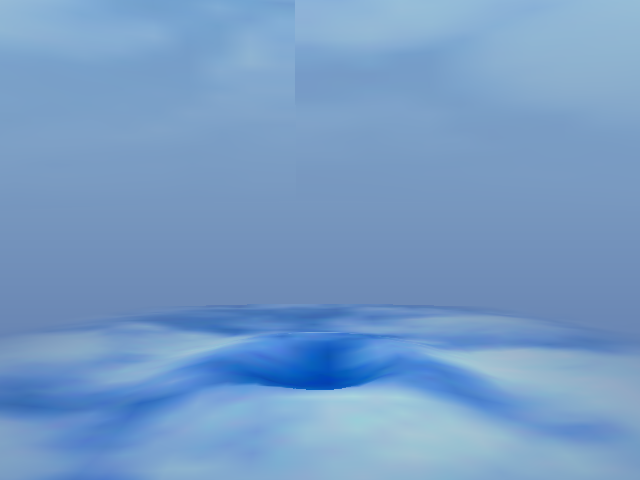
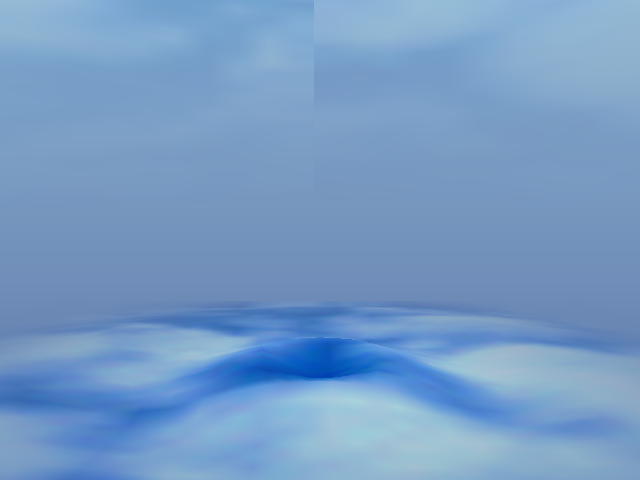
Backdrop scene into the opaque list (colour-based fade, screen-bounded meshes); overlay as pieces; no panel shadows: fixes polygons dropped from the translucent tile lists
Claude-Session: https://claude.ai/code/session_01AV7v7VGumyouLVprf4KvLQ

diff --git a/openMenu/src/openmenu/src/ui/draw_kos.c b/openMenu/src/openmenu/src/ui/draw_kos.c
@@ -387,14 +387,20 @@ draw_draw_phone_icon(int x, int y, uint32_t color) {
  * It is the same scene as the page's Three.js one (dc-background.js of DreamPiAutoToggle, adapted from the VMU Icon Maker by Robert Dale
  * Smith, MIT): a camera at (0, -20, 7) with a 75 degree field of view looking along +y, a 50 x 30 plane at z = 0 whose height is four
  * outgoing ripples, fading out with the distance from the middle, and a big cylinder (radius 40, rotating slowly) behind it that fades
- * out downward, both covered with the same 64x64 cloud texture. Over a sky gradient. Lighting is the page's: an ambient 0x404040 and two
+ * out downward, both covered with the same 64x64 cloud texture, over a sky gradient. Lighting is the page's: an ambient 0x404040 and two
  * directional lights, worked out per vertex.
  *
- * The page's mesh has 101 x 101 vertices; this one has 29 x 21 for the plane and about 18 x 11 for the cylinder, which keeps a frame at
- * roughly 1700 vertices (about 55 KB of the 256 KB vertex buffer). The texture is 8 KB of video memory, allocated once. If that
- * allocation fails the sky gradient still draws. Colours are exactly the page's unless the theme gives a backdrop_color to tint them.
+ * How it fits the PVR. The scene goes into the OPAQUE list, not the translucent one. The translucent list is where all the text goes, and the
+ * PVR keeps a short list of the polygons in each 32 x 32 tile (32 entries); a tile with text in it is already half full, so a scene drawn
+ * there made the PVR drop polygons (squares missing from pictures, vanishing text and borders). The page's fade to transparent is done with
+ * the colours instead: a vertex gets the picture times (opacity x light) as its colour and (1 - opacity) x the sky behind it as its offset
+ * colour, which adds up to the same blend. The meshes also stay near the screen (the page's plane and cylinder run far off it), because the PVR
+ * draws polygons with huge coordinates wrongly. The plane is a grid whose rows are spaced evenly on the screen and whose width follows the
+ * screen's width at that row (22 x 24 cells); the cylinder is the front half, only the rows that reach the screen (8 rows). Together about
+ * 1100 vertices a frame. The texture is 8 KB of video memory, allocated once; if that fails the sky gradient still draws. Colours are exactly
+ * the page's unless the theme gives a backdrop_color to tint them.
  *
- * draw_backdrop() goes in the opaque pass (the sky gradient), draw_backdrop_scene() at the start of the translucent pass. */
+ * draw_backdrop() (the sky) and draw_backdrop_scene() both go in the opaque pass, in that order. */
 #include "ui/backdrop_texture.h"
 
 #define SCENE_FOCAL     469.15f /* 720 / 2 / tan(37.5 degrees): the page draws the scene on a canvas 240 px taller than a 480 px view, centred on it */
@@ -404,17 +410,19 @@ draw_draw_phone_icon(int x, int y, uint32_t color) {
 #define SCENE_FWD_Z     (-0.058232f)
 #define SCENE_UP_Y      0.058232f
 #define SCENE_UP_Z      0.998305f
-#define PLANE_COLS      28
-#define PLANE_ROWS      20
+#define PLANE_COLS      24
+#define PLANE_ROWS      22
 #define CYL_SEGMENTS    32
-#define CYL_ROWS        10
+#define CYL_ROWS        8
+#define CYL_FIRST       26.0f /* the part of the cylinder that reaches the screen: from here ... */
+#define CYL_LAST        60.0f /* ... to here along its axis (its opacity is nearly zero beyond) */
 #define CYL_HEIGHT      70.0f
 #define CYL_RADIUS      40.0f
-#define CYL_ROW_LENGTH  60.0f /* the part of the cylinder that is drawn: its opacity is nearly zero beyond it */
 
 typedef struct scene_vertex {
     float x, y, w, u, v;
-    uint32_t argb;
+    uint32_t argb;  /* the picture's multiplier: opacity x light */
+    uint32_t oargb; /* what is added: (1 - opacity) x the sky */
     int ok;
 } scene_vertex_t;
 
@@ -445,6 +453,16 @@ tinted(uint32_t argb) {
            | (((argb & 0xFF) * (backdrop_tint & 0xFF)) / 255);
 }
 
+/* The sky gradient at a screen row, as 0..255 floats. */
+static void
+sky_at(float sy, float* r, float* g, float* b) {
+    const float f = sy < 0.0f ? 0.0f : (sy > 480.0f ? 1.0f : sy * (1.0f / 480.0f));
+
+    *r = 142.0f + (90.0f - 142.0f) * f;
+    *g = 179.0f + (115.0f - 179.0f) * f;
+    *b = 209.0f + (167.0f - 209.0f) * f;
+}
+
 /* World point to screen, as the page's camera sees it. */
 static int
 scene_project(float x, float y, float z, scene_vertex_t* out) {
@@ -453,7 +471,7 @@ scene_project(float x, float y, float z, scene_vertex_t* out) {
     const float depth = SCENE_FWD_Y * dy + SCENE_FWD_Z * dz;
     float inv;
 
-    if (depth < 0.5f) {
+    if (depth < 2.0f) {
         out->ok = 0;
         return 0;
     }
@@ -463,6 +481,18 @@ scene_project(float x, float y, float z, scene_vertex_t* out) {
     out->w = inv;
     out->ok = 1;
     return 1;
+}
+
+/* Sets a vertex's colours for an opacity and a light level. */
+static void
+scene_colour(scene_vertex_t* v, float opacity, float light) {
+    float sr, sg, sb;
+    const int base = (int)(255.0f * light * opacity);
+    const float rest = 1.0f - opacity;
+
+    sky_at(v->y, &sr, &sg, &sb);
+    v->argb = tinted(0xFF000000u | ((uint32_t)base << 16) | ((uint32_t)base << 8) | (uint32_t)base);
+    v->oargb = tinted(0xFF000000u | ((uint32_t)(sr * rest) << 16) | ((uint32_t)(sg * rest) << 8) | (uint32_t)(sb * rest));
 }
 
 /* The sky: the page's gradient, as it shows on a 480 pixel screen. */
@@ -501,8 +531,9 @@ scene_header(int clamp) {
     pvr_poly_cxt_t context;
     pvr_poly_hdr_t header;
 
-    pvr_poly_cxt_txr(&context, PVR_LIST_TR_POLY, PVR_TXRFMT_RGB565 | PVR_TXRFMT_TWIDDLED, 64, 64, backdrop_txr, PVR_FILTER_BILINEAR);
+    pvr_poly_cxt_txr(&context, draw_get_list(), PVR_TXRFMT_RGB565 | PVR_TXRFMT_TWIDDLED, 64, 64, backdrop_txr, PVR_FILTER_BILINEAR);
     context.gen.culling = PVR_CULLING_NONE;
+    context.gen.specular = PVR_SPECULAR_ENABLE; /* the offset colour is added to the picture */
     if (clamp) {
         context.txr.uv_clamp = PVR_UVCLAMP_UV;
     }
@@ -513,7 +544,7 @@ scene_header(int clamp) {
 static void
 scene_strip_vertex(const scene_vertex_t* v, int last) {
     pvr_vertex_t vert = {.flags = last ? PVR_CMD_VERTEX_EOL : PVR_CMD_VERTEX, .x = v->x, .y = v->y, .z = v->w, .u = v->u, .v = v->v,
-                         .argb = v->argb, .oargb = 0};
+                         .argb = v->argb, .oargb = v->oargb};
 
     pvr_prim(&vert, sizeof(vert));
 }
@@ -536,30 +567,42 @@ plane_height(float x, float y, float t, float* opacity) {
     return h;
 }
 
+/* The world y that lands on a screen row for a point on the plane (z = 0): (240 - sy) * depth = focal * up, with dz = -7, solved for dy. */
+static float
+plane_y_at_row(float sy) {
+    const float up = 240.0f - sy;
+    const float num = 7.0f * (up * SCENE_FWD_Z - SCENE_FOCAL * SCENE_UP_Z);
+    const float den = up * SCENE_FWD_Y - SCENE_FOCAL * SCENE_UP_Y;
+
+    return num / den + SCENE_CAM_Y;
+}
+
 static void
 draw_scene_plane(float t) {
     static scene_vertex_t grid[PLANE_ROWS + 1][PLANE_COLS + 1];
 
     for (int j = 0; j <= PLANE_ROWS; j++) {
-        for (int i = 0; i <= PLANE_COLS; i++) {
-            /* The visible part: the page's plane is 50 x 30, but nothing of it shows beyond 20 units from the middle. The points crowd
-             * toward the middle, where the ripples are, and thin out toward the edges. */
-            const float sx = -1.0f + 2.0f * (float)i / PLANE_COLS;
-            const float sy = -1.0f + 2.0f * (float)j / PLANE_ROWS;
-            const float x = (sx < 0.0f ? -20.0f : 20.0f) * powf(fabsf(sx), 1.7f);
-            const float y = (sy < 0.0f ? -15.0f : 15.0f) * powf(fabsf(sy), 1.7f);
-            float opacity;
-            const float h = plane_height(x, y, t, &opacity);
-            scene_vertex_t* v = &grid[j][i];
-            int a;
+        /* Row 0 is the plane's far edge (y = 15). The others run from just below the horizon to the bottom of the screen, evenly on the
+         * screen, so that the rows are about 10 px apart wherever the ripples are. */
+        const float row_y = j == 0 ? 15.0f : plane_y_at_row(300.0f + 215.0f * (float)(j - 1) / (PLANE_ROWS - 1));
+        const float depth = SCENE_FWD_Y * (row_y - SCENE_CAM_Y) + SCENE_FWD_Z * (0.0f - SCENE_CAM_Z);
+        /* The width of the screen plus a margin, as plane units at this row, and never more than the part of the plane that shows. */
+        float half = 400.0f * depth * (1.0f / SCENE_FOCAL);
 
-            if (scene_project(x, y, h, v)) {
+        half = half > 20.0f ? 20.0f : half;
+        for (int i = 0; i <= PLANE_COLS; i++) {
+            const float s = -1.0f + 2.0f * (float)i / PLANE_COLS;
+            const float x = (s < 0.0f ? -half : half) * powf(fabsf(s), 1.4f);
+            float opacity;
+            const float h = plane_height(x, row_y, t, &opacity);
+            scene_vertex_t* v = &grid[j][i];
+
+            if (scene_project(x, row_y, h, v)) {
                 v->u = (x + 25.0f) * (1.0f / 50.0f);
-                v->v = (15.0f - y) * (1.0f / 30.0f);
-                a = (int)(opacity * 255.0f);
+                v->v = (15.0f - row_y) * (1.0f / 30.0f);
                 /* Ambient 0.25 + the light from (1, 1, 1) and the one from (1, -15, 1) on the flat normal (0, 0, 1), and the little
                  * specular the page's material adds: 0.25 + 0.577 + 0.066 + 0.05. */
-                v->argb = tinted(((uint32_t)a << 24) | 0x00F0F0F0u);
+                scene_colour(v, opacity, 0.94f);
             }
         }
     }
@@ -593,7 +636,7 @@ draw_scene_cylinder(uint32_t frame) {
         const float zs = -xl * fsin(spin) + zl * fcos(spin);
 
         for (int j = 0; j <= CYL_ROWS; j++) {
-            const float yl = CYL_ROW_LENGTH * (float)j / CYL_ROWS;
+            const float yl = CYL_FIRST + (CYL_LAST - CYL_FIRST) * (float)j / CYL_ROWS;
             const float wy = yl * tilt_c - zs * tilt_s;
             const float wz = 65.0f + yl * tilt_s + zs * tilt_c;
             const float n = yl * (1.0f / 60.0f);
@@ -604,10 +647,10 @@ draw_scene_cylinder(uint32_t frame) {
 
             if (scene_project(xs, wy, wz, v)) {
                 /* The page's shader uses the raw texture coordinates (its repeat and offset settings do not reach a shader), so the
-                 * picture goes once around the cylinder. */
+                 * picture goes once around the cylinder, and its top is the top of the column. */
                 v->u = (float)k * (1.0f / CYL_SEGMENTS);
-                v->v = 1.0f - (float)j * (CYL_ROW_LENGTH / CYL_HEIGHT) / CYL_ROWS;
-                v->argb = tinted(((uint32_t)(opacity * 255.0f) << 24) | 0x00FFFFFFu);
+                v->v = 1.0f - yl * (1.0f / CYL_HEIGHT);
+                scene_colour(v, opacity, 1.0f);
             }
         }
     }
@@ -780,19 +823,19 @@ draw_draw_popup_frame(int x, int y, int width, int height, int header_height, ui
     }
 }
 
-/* A glass panel for backdrop themes: a soft shadow, a translucent fill that is a little lighter at the top, and a border. Colours are
+/* A glass panel for backdrop themes: a translucent fill that is a little lighter at the top, and a border. (No shadow: every polygon is
+ * another entry in the tile lists of the translucent pass, which the text already fills.) Colours are
  * 0xRRGGBB; alpha (0..255) is the fill's opacity at the top, the bottom is a third more transparent. */
 void
 draw_draw_panel(int x, int y, int width, int height, int radius, int border_width, uint32_t border_rgb, uint32_t fill_rgb, int alpha) {
     float px[OUTLINE_MAX], py[OUTLINE_MAX];
     const float r = (float)radius;
-    int n = rr_outline((float)(x + 3), (float)(y + 5), (float)width, (float)height, r, r, r, r, px, py);
+    int n;
     const uint32_t rgb = fill_rgb & 0x00FFFFFFu;
     const uint32_t light = (((rgb >> 16) & 0xFF) * 3 / 2 > 255 ? 255 : ((rgb >> 16) & 0xFF) * 3 / 2) << 16
                            | (((rgb >> 8) & 0xFF) * 3 / 2 > 255 ? 255 : ((rgb >> 8) & 0xFF) * 3 / 2) << 8
                            | (((rgb & 0xFF) * 3 / 2 > 255 ? 255 : (rgb & 0xFF) * 3 / 2));
 
-    draw_convex(px, py, n, (float)(y + 5), (float)(y + 5 + height), 0x50000000u, 0x30000000u);                 /* the shadow */
     n = rr_outline((float)x, (float)y, (float)width, (float)height, r, r, r, r, px, py);
     draw_convex(px, py, n, (float)y, (float)(y + height), ((uint32_t)alpha << 24) | light, ((uint32_t)(alpha * 17 / 20) << 24) | rgb);
     draw_ring((float)x, (float)y, (float)width, (float)height, r, (float)border_width, 0xFF000000u | border_rgb);

diff --git a/tools/folders-theme/render_backdrop_frame.py b/tools/folders-theme/render_backdrop_frame.py
@@ -2,7 +2,7 @@
 """Renders a frame of openMenu's animated backdrop on the build machine, to check it against the web page's scene and to make the theme
 previews. It cuts the scene code (between the "The animated backdrop of themes" comment and "Rounded rectangles as real polygons") out of
 openMenu/src/openmenu/src/ui/draw_kos.c, compiles it with stand-ins for the PVR calls (gcc needed), runs it for N frames and draws the
-strips it submitted with a small software rasteriser: perspective-correct texture, Gouraud colour, alpha blending, in submission order.
+strips it submitted with a small software rasteriser: perspective-correct texture, Gouraud colour and the offset colour (the scene is opaque).
 
   python3 render_backdrop_frame.py [frame] [out.png]      default: frame 82, backdrop_frame.png (the theme previews use it)
 
@@ -24,7 +24,7 @@ HEAD = r"""#include <math.h>
 #include <stdlib.h>
 #include <string.h>
 typedef void* pvr_ptr_t;
-typedef struct {struct {int culling;} gen; struct {int uv_clamp;} txr;} pvr_poly_cxt_t; typedef struct {int dummy;} pvr_poly_hdr_t;
+typedef struct {struct {int culling; int specular;} gen; struct {int uv_clamp;} txr;} pvr_poly_cxt_t; typedef struct {int dummy;} pvr_poly_hdr_t;
 typedef struct {uint32_t flags; float x,y,z,u,v; uint32_t argb,oargb;} pvr_vertex_t;
 #define PVR_CMD_VERTEX 0xE0000000
 #define PVR_CMD_VERTEX_EOL 0xF0000000
@@ -33,6 +33,7 @@ typedef struct {uint32_t flags; float x,y,z,u,v; uint32_t argb,oargb;} pvr_verte
 #define PVR_TXRFMT_TWIDDLED 2
 #define PVR_FILTER_BILINEAR 2
 #define PVR_CULLING_NONE 0
+#define PVR_SPECULAR_ENABLE 1
 #define PVR_UVCLAMP_UV 3
 static FILE* out;
 static float fsin(float x){return sinf(x);} static float fcos(float x){return cosf(x);}
@@ -40,7 +41,7 @@ static int draw_get_list(void){return 0;}
 static pvr_ptr_t pvr_mem_malloc(size_t n){return malloc(n);} static void pvr_txr_load(const void* a,pvr_ptr_t b,size_t n){memcpy(b,a,n);}
 static void pvr_poly_cxt_col(pvr_poly_cxt_t* c,int l){(void)c;(void)l;} static void pvr_poly_cxt_txr(pvr_poly_cxt_t* c,int l,int f,int w,int h,pvr_ptr_t t,int fl){(void)c;(void)l;(void)f;(void)w;(void)h;(void)t;(void)fl;}
 static void pvr_poly_compile(pvr_poly_hdr_t* h,pvr_poly_cxt_t* c){(void)h;(void)c;}
-static void pvr_prim(void* p,int n){ if(n==(int)sizeof(pvr_vertex_t)){pvr_vertex_t* v=p; fprintf(out,"V %f %f %f %f %f %08x %d\n",v->x,v->y,v->z,v->u,v->v,v->argb,v->flags==PVR_CMD_VERTEX_EOL);} else fprintf(out,"H\n");}
+static void pvr_prim(void* p,int n){ if(n==(int)sizeof(pvr_vertex_t)){pvr_vertex_t* v=p; fprintf(out,"V %f %f %f %f %f %08x %08x %d\n",v->x,v->y,v->z,v->u,v->v,v->argb,v->oargb,v->flags==PVR_CMD_VERTEX_EOL);} else fprintf(out,"H\n");}
 """
 TAIL = r"""int main(int argc,char**argv){
  out=fopen(argv[1],"w"); int frames=atoi(argv[2]);
@@ -88,8 +89,8 @@ def render(path, W=640, H=480):
         if line.startswith('F'): strips=[];cur=None
         elif line.startswith('H'): cur=[];strips.append(cur)
         elif line.startswith('V'):
-            p=line.split(); cur.append((float(p[1]),float(p[2]),float(p[3]),float(p[4]),float(p[5]),int(p[6],16)))
-            if p[7]=='1': cur=[];strips.append(cur)
+            p=line.split(); cur.append((float(p[1]),float(p[2]),float(p[3]),float(p[4]),float(p[5]),int(p[6],16),int(p[7],16)))
+            if p[8]=='1': cur=[];strips.append(cur)
     for st in strips:
         for i in range(len(st)-2):
             tri=st[i:i+3]
@@ -98,14 +99,14 @@ def render(path, W=640, H=480):
             x0,x1=max(0,int(min(xs))),min(W-1,int(max(xs))+1); y0,y1=max(0,int(min(ys))),min(H-1,int(max(ys))+1)
             if x1<=x0 or y1<=y0: continue
             gx,gy=np.meshgrid(np.arange(x0,x1+1)+0.5,np.arange(y0,y1+1)+0.5)
-            (ax,ay,aw,au,av,ac),(bx,by,bw,bu,bv,bc),(cx,cy,cw,cu,cv,cc)=tri
+            (ax,ay,aw,au,av,ac,ao),(bx,by,bw,bu,bv,bc,bo),(cx,cy,cw,cu,cv,cc,co)=tri
             den=(by-cy)*(ax-cx)+(cx-bx)*(ay-cy)
             if abs(den)<1e-12: continue
             l1=((by-cy)*(gx-cx)+(cx-bx)*(gy-cy))/den; l2=((cy-ay)*(gx-cx)+(ax-cx)*(gy-cy))/den; l3=1-l1-l2
             m=(l1>=0)&(l2>=0)&(l3>=0)
             if not m.any(): continue
             ch=lambda c,s:(c>>s)&255
-            col=[l1*ch(ac,s)+l2*ch(bc,s)+l3*ch(cc,s) for s in (16,8,0)]; al=(l1*ch(ac,24)+l2*ch(bc,24)+l3*ch(cc,24))/255.0
+            col=[l1*ch(ac,s)+l2*ch(bc,s)+l3*ch(cc,s) for s in (16,8,0)]; off=[l1*ch(ao,s)+l2*ch(bo,s)+l3*ch(co,s) for s in (16,8,0)]; al=(l1*ch(ac,24)+l2*ch(bc,24)+l3*ch(cc,24))/255.0
             sub=img[y0:y1+1,x0:x1+1]
             if aw<0.005:   # the untextured sky
                 for k in range(3): sub[:,:,k]=np.where(m,col[k],sub[:,:,k])
@@ -115,10 +116,9 @@ def render(path, W=640, H=480):
             wrap=max(au,bu,cu)>1.01 or min(au,bu,cu)<-0.01
             t=sample(TEX,u,v,wrap)
             for k in range(3):
-                c=t[...,k]*col[k]/255.0
-                sub[:,:,k]=np.where(m,sub[:,:,k]*(1-al)+c*al,sub[:,:,k])
+                c=np.clip(t[...,k]*col[k]/255.0+off[k],0,255)      # picture x colour + offset colour (an opaque polygon)
+                sub[:,:,k]=np.where(m,c,sub[:,:,k])
     return Image.fromarray(np.clip(img,0,255).astype('uint8'))
-
 
 
 if __name__ == "__main__":

diff --git a/openMenu/src/openmenu/src/ui/ui_folders.c b/openMenu/src/openmenu/src/ui/ui_folders.c
@@ -294,6 +294,19 @@ draw_event_banner(void) {
     }
 }
 
+/* The picture of a backdrop theme has only a logo, the Controls text and an empty disc on it, the rest is see-through. Drawn whole it would
+ * add an entry to every tile's polygon list in the translucent pass (the text fills those lists), so only the three pieces are drawn. */
+static void
+draw_bg_overlay(void) {
+    const dimen_RECT logo = {.x = 8, .y = 12, .w = 200, .h = 52};
+    const dimen_RECT right_left = {.x = 414, .y = 66, .w = 98, .h = 358};
+    const dimen_RECT right_right = {.x = 0, .y = 66, .w = 116, .h = 358};
+
+    draw_draw_sub_image(8, 12, 200, 52, COLOR_WHITE, &txr_bg_left, &logo);
+    draw_draw_sub_image(414, 66, 98, 358, COLOR_WHITE, &txr_bg_left, &right_left);
+    draw_draw_sub_image(512, 66, 116, 358, COLOR_WHITE, &txr_bg_right, &right_right);
+}
+
 static void
 draw_gamelist(void) {
     if (list_len <= 0) {
@@ -1404,6 +1417,7 @@ FUNCTION(UI_NAME, drawOP) {
     if (cur_theme->backdrop) {
         /* The background picture has see-through areas and is drawn in the translucent pass, over this. */
         draw_backdrop(cur_theme->backdrop_color);
+        draw_backdrop_scene();
     } else {
         draw_bg_layers();
     }
@@ -1411,8 +1425,7 @@ FUNCTION(UI_NAME, drawOP) {
 
 FUNCTION(UI_NAME, drawTR) {
     if (cur_theme->backdrop) {
-        /* The background scene, glass panels over it, then the background picture (logo, legend) over them. */
-        draw_backdrop_scene();
+        /* Glass panels over the background scene (drawn in the opaque pass), then the background picture (logo, legend) over them. */
         /* The border follows the network the DreamPi has selected, when the theme gives a colour for it. */
         uint32_t panel_border = cur_theme->panel_border_color ? cur_theme->panel_border_color : 0xF6B27A;
         const int network = dreampi_link_network();
@@ -1430,7 +1443,7 @@ FUNCTION(UI_NAME, drawTR) {
                                 panel_border, cur_theme->panel_fill_color, cur_theme->panel_alpha ? cur_theme->panel_alpha : 150);
             }
         }
-        draw_bg_layers();
+        draw_bg_overlay();
     }
 
     /* List, artwork and details always draw, popups go on top of them. */

diff --git a/tools/folders-theme/README.md b/tools/folders-theme/README.md
@@ -31,22 +31,32 @@ water, ported from its Three.js scene (`dc-background.js`, adapted from Robert D
   small software rasteriser and writes `backdrop_frame.png` (the theme previews use it). Against a Chromium screenshot of the page's scene at
   640x480 the mean difference was about 1.4 levels out of 255 (the rasteriser is not the PVR, so it is a check of the geometry, texture mapping,
   colours and timing, not of the console's output).
-- **What is cut down from the page.** Its plane has 101 x 101 points; this one has 29 x 21 (crowded toward the middle, where the ripples are), and
-  the cylinder about 18 x 10. A frame is about 1560 vertices (roughly 50 KB of the 256 KB vertex buffer). The page's specular highlight is folded
-  into the plane's brightness. Nothing else is different.
+- **Why the scene is in the opaque list (the glitch fix).** The first version drew the scene in the translucent pass, where all the text is. The PVR
+  keeps a short list of polygons for each 32 x 32 tile and a tile with text in it is already about two thirds full (every character is its own
+  polygon), so a scene drawn there overflowed the lists: polygons were dropped, which showed as missing borders and panels, text that vanished,
+  and square holes in pictures. It was not the depth buffer (the scene's depth values are tiny, so everything else sits in front of it as it
+  should). Now the scene is opaque and goes in the opaque list, which nothing else uses: the page's fade to transparent is done with the
+  vertex colours (the picture times opacity and light, plus the sky behind it times one minus the opacity, as the offset colour), which adds up
+  to the same blend. The meshes are also kept near the screen, because the PVR draws polygons with huge coordinates wrongly: the plane's rows
+  are spaced evenly on the screen and its width follows the screen's at that row, and only the front half of the cylinder and the rows that
+  reach the screen are drawn. At most 12 polygon entries land in any tile (average 3.5), against the 32 a list holds.
+- **Less in the translucent pass too.** The background picture is drawn as three pieces (logo, Controls, disc) instead of the whole screen, and
+  the panels have no shadow, which saves an entry in most tiles.
+- **What is cut down from the page.** Its plane has 101 x 101 points; this one has 25 x 23 (rows spaced evenly on the screen, columns crowded
+  toward the middle, where the ripples are), and the cylinder the visible 16 x 8. A frame is about 1400 vertices. The page's specular highlight
+  is folded into the plane's brightness. Nothing else is different.
 - **Memory.** The 64x64 texture is 8 KB of video memory, allocated once the first time the backdrop draws (`backdrop_texture.h` holds it, RGB565
-  and twiddled, made by `make_backdrop_texture.py`). If that allocation fails the sky gradient still draws. About 25 KB of static arrays. The
+  and twiddled, made by `make_backdrop_texture.py`). If that allocation fails the sky gradient still draws. About 20 KB of static arrays. The
   theme's background picture is ARGB4444 instead of RGB565, both 16 bits per pixel, so its two textures are the same size as before (640 KB).
-- **The border follows the network.** The animated themes give `panel_border_color_dcnow` (orange) and `panel_border_color_dcnet` (blue): when the
-  DreamPi's answer says `NET dcnow` or `NET dcnet`, the panel borders take that colour, like the web page's network colours. Before the answer, or
-  without the add-on, a theme's own `panel_border_color` is used (orange for WebOrangeAnim, blue for WebBlueAnim). The logo swirl and the
-  Controls heading are part of the picture and keep their colour.
 - **The panels.** The rounded boxes are drawn by openMenu (`draw_draw_panel()`): a soft shadow, a fill like the web page's boxes (rgba 20,20,20
   at .78; a little lighter at the top) and a 3 px accent border, with real arcs for the corners. The rectangles are `panel_0` to `panel_3` in
   `THEME.INI`. The same arc code draws the rounded popups (`menu_corner_radius`).
 - **The picture.** `BG_L.PVR` / `BG_R.PVR` hold only the logo (with a soft shadow, because the white lettering sits on bright sky), the Controls
   text and an empty disc; the rest is see-through.
-- **Not run on a Dreamcast.** If it is slow, lower `PLANE_COLS` / `PLANE_ROWS` or `CYL_SEGMENTS` / `CYL_ROWS` in `draw_kos.c`. If the scene does
+- **Compatibility.** The still set (`out/`) works on a stock openMenu: it is a plain RGB565 picture and standard theme keys (`menu_corner_radius` and
+  `online_color` are ignored there, so popups are square and colours are the standard ones). The animated set needs this build: a stock openMenu
+  draws the background picture in the opaque pass, where its see-through parts come out black, and has no backdrop or panels.
+- **Not run on a Dreamcast beyond the first test.** If it is slow, lower `PLANE_COLS` / `PLANE_ROWS` or `CYL_SEGMENTS` / `CYL_ROWS` in `draw_kos.c`. If the scene does
   not show at all, tell me what you see (black, the plain gradient, no animation), because each points to a different cause: the gradient
   without the scene means the texture allocation failed.
 - **Dither.** Over a gradient the console's dithering shows as fine noise, which is how a 16-bit picture shows smooth shading. The still set has
